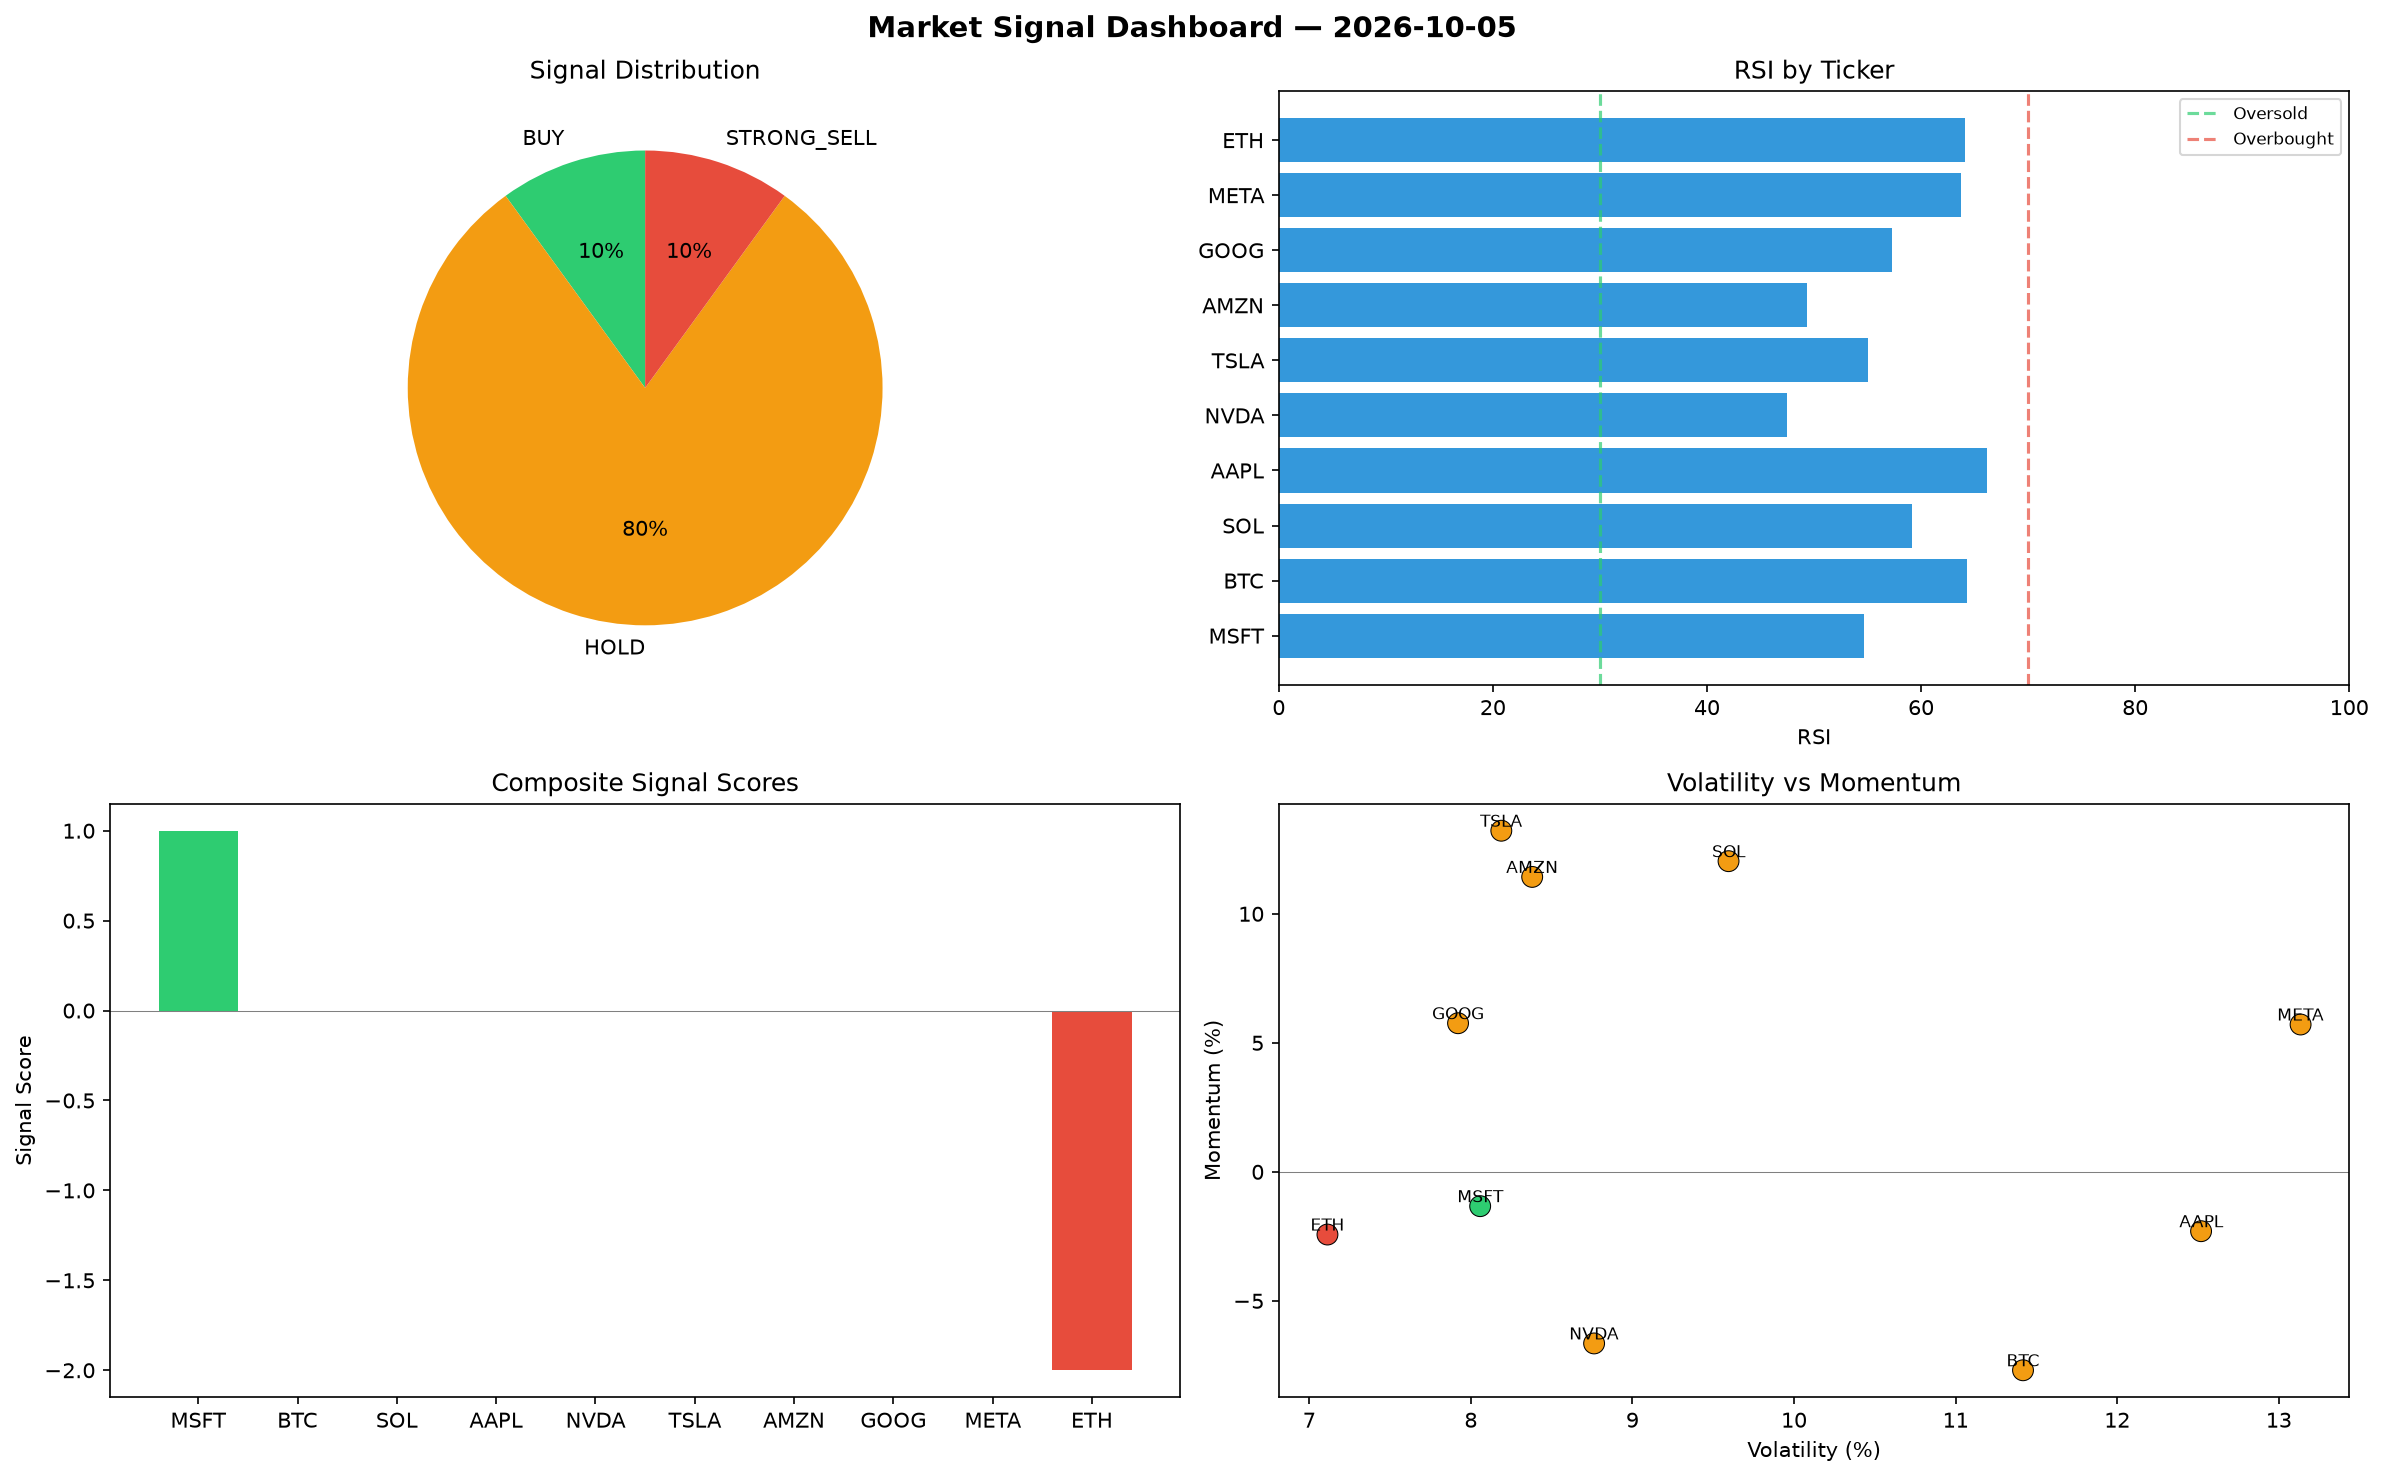
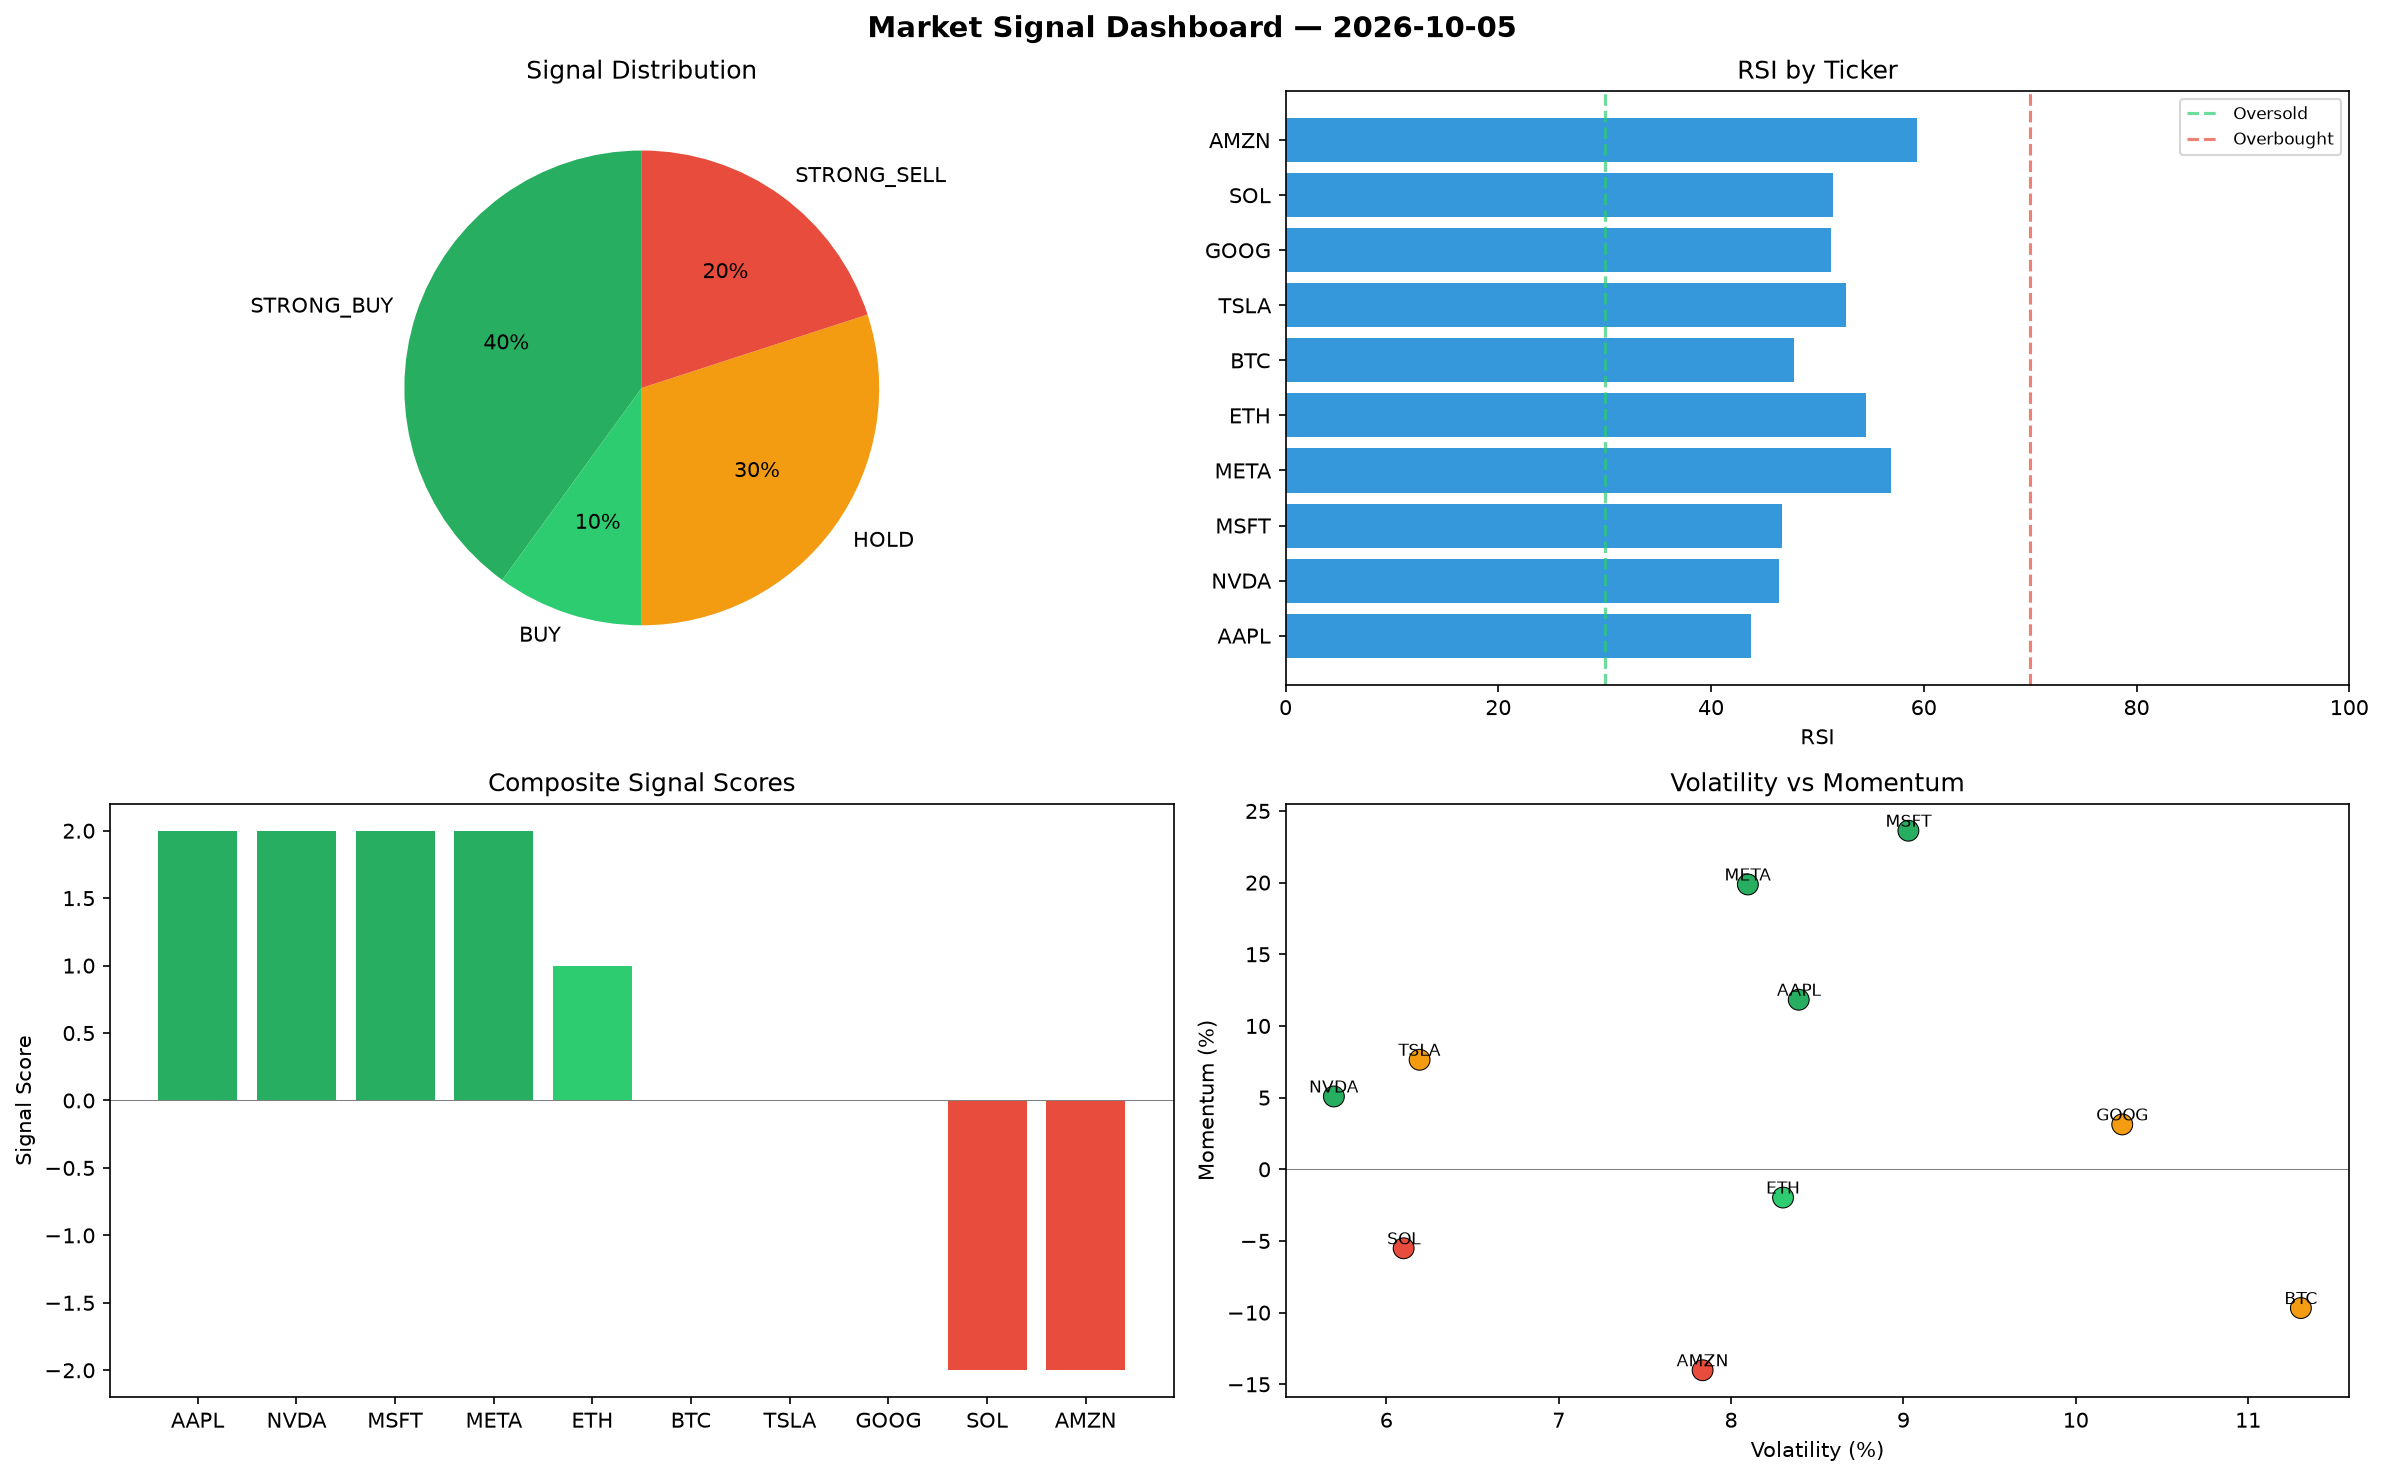
automated-bots: market signals 2026-10-05T17:16

diff --git a/logs/2026-10-05.md b/logs/2026-10-05.md
@@ -1,6 +1,6 @@
 # Market Signal Report — 2026-10-05
 
-**Run ID:** `9a66501e30` | **Buy:** 1 | **Sell:** 1 | **Hold:** 8
+**Run ID:** `1e038074b3` | **Buy:** 5 | **Sell:** 2 | **Hold:** 3
 
 ![Dashboard](2026-10-05_dashboard.png)
 
@@ -8,28 +8,28 @@
 
 | Ticker | Price | Signal | Score | RSI | Momentum | Confidence |
 |--------|-------|--------|-------|-----|----------|------------|
-| MSFT | $2652.25 | **BUY** | 1 | 54.69 | -0.0133 | 0.25 |
-| BTC | $975.99 | **HOLD** | 0 | 64.29 | -0.0769 | 0.0 |
-| SOL | $1325.49 | **HOLD** | 0 | 59.16 | 0.1204 | 0.0 |
-| AAPL | $853.23 | **HOLD** | 0 | 66.17 | -0.023 | 0.0 |
-| NVDA | $585.73 | **HOLD** | 0 | 47.5 | -0.0665 | 0.0 |
-| TSLA | $1479.97 | **HOLD** | 0 | 55.02 | 0.1322 | 0.0 |
-| AMZN | $672.42 | **HOLD** | 0 | 49.38 | 0.1143 | 0.0 |
-| GOOG | $1330.81 | **HOLD** | 0 | 57.27 | 0.0576 | 0.0 |
-| META | $108.28 | **HOLD** | 0 | 63.77 | 0.0571 | 0.0 |
-| ETH | $3744.39 | **STRONG_SELL** | -2 | 64.11 | -0.0243 | 0.5 |
+| AAPL | $5400.43 | **STRONG_BUY** | 2 | 43.73 | 0.1183 | 0.5 |
+| NVDA | $3973.24 | **STRONG_BUY** | 2 | 46.37 | 0.0508 | 0.5 |
+| MSFT | $3250.56 | **STRONG_BUY** | 2 | 46.65 | 0.2362 | 0.5 |
+| META | $4890.29 | **STRONG_BUY** | 2 | 56.95 | 0.1987 | 0.5 |
+| ETH | $837.9 | **BUY** | 1 | 54.54 | -0.0197 | 0.25 |
+| BTC | $940.46 | **HOLD** | 0 | 47.84 | -0.0968 | 0.0 |
+| TSLA | $2659.26 | **HOLD** | 0 | 52.68 | 0.0764 | 0.0 |
+| GOOG | $1913.85 | **HOLD** | 0 | 51.27 | 0.0313 | 0.0 |
+| SOL | $3342.16 | **STRONG_SELL** | -2 | 51.51 | -0.0551 | 0.5 |
+| AMZN | $4579.12 | **STRONG_SELL** | -2 | 59.32 | -0.1402 | 0.5 |
 
 ## Delta vs Yesterday
 
 | Ticker | Today | Yesterday | Price Change | Signal Changed |
 |--------|-------|-----------|-------------|----------------|
-| MSFT | BUY | STRONG_SELL | 📈 6695.41% | ⚠ YES |
-| BTC | HOLD | HOLD | 📉 -48.15% | — |
-| SOL | HOLD | HOLD | 📉 -66.02% | — |
-| AAPL | HOLD | STRONG_BUY | 📈 226.77% | ⚠ YES |
-| NVDA | HOLD | SELL | 📉 -76.72% | ⚠ YES |
-| TSLA | HOLD | STRONG_BUY | 📉 -25.85% | ⚠ YES |
-| AMZN | HOLD | STRONG_SELL | 📉 -70.27% | ⚠ YES |
-| GOOG | HOLD | STRONG_SELL | 📉 -10.13% | ⚠ YES |
-| META | HOLD | SELL | 📉 -5.81% | ⚠ YES |
-| ETH | STRONG_SELL | HOLD | 📈 103.59% | ⚠ YES |
+| AAPL | STRONG_BUY | STRONG_BUY | 📈 1968.26% | — |
+| NVDA | STRONG_BUY | SELL | 📈 57.91% | ⚠ YES |
+| MSFT | STRONG_BUY | STRONG_SELL | 📈 8228.36% | ⚠ YES |
+| META | STRONG_BUY | SELL | 📈 4153.91% | ⚠ YES |
+| ETH | BUY | HOLD | 📉 -54.44% | ⚠ YES |
+| BTC | HOLD | HOLD | 📉 -50.03% | — |
+| TSLA | HOLD | STRONG_BUY | 📈 33.23% | ⚠ YES |
+| GOOG | HOLD | STRONG_SELL | 📈 29.24% | ⚠ YES |
+| SOL | STRONG_SELL | HOLD | 📉 -14.33% | ⚠ YES |
+| AMZN | STRONG_SELL | STRONG_SELL | 📈 102.46% | — |
